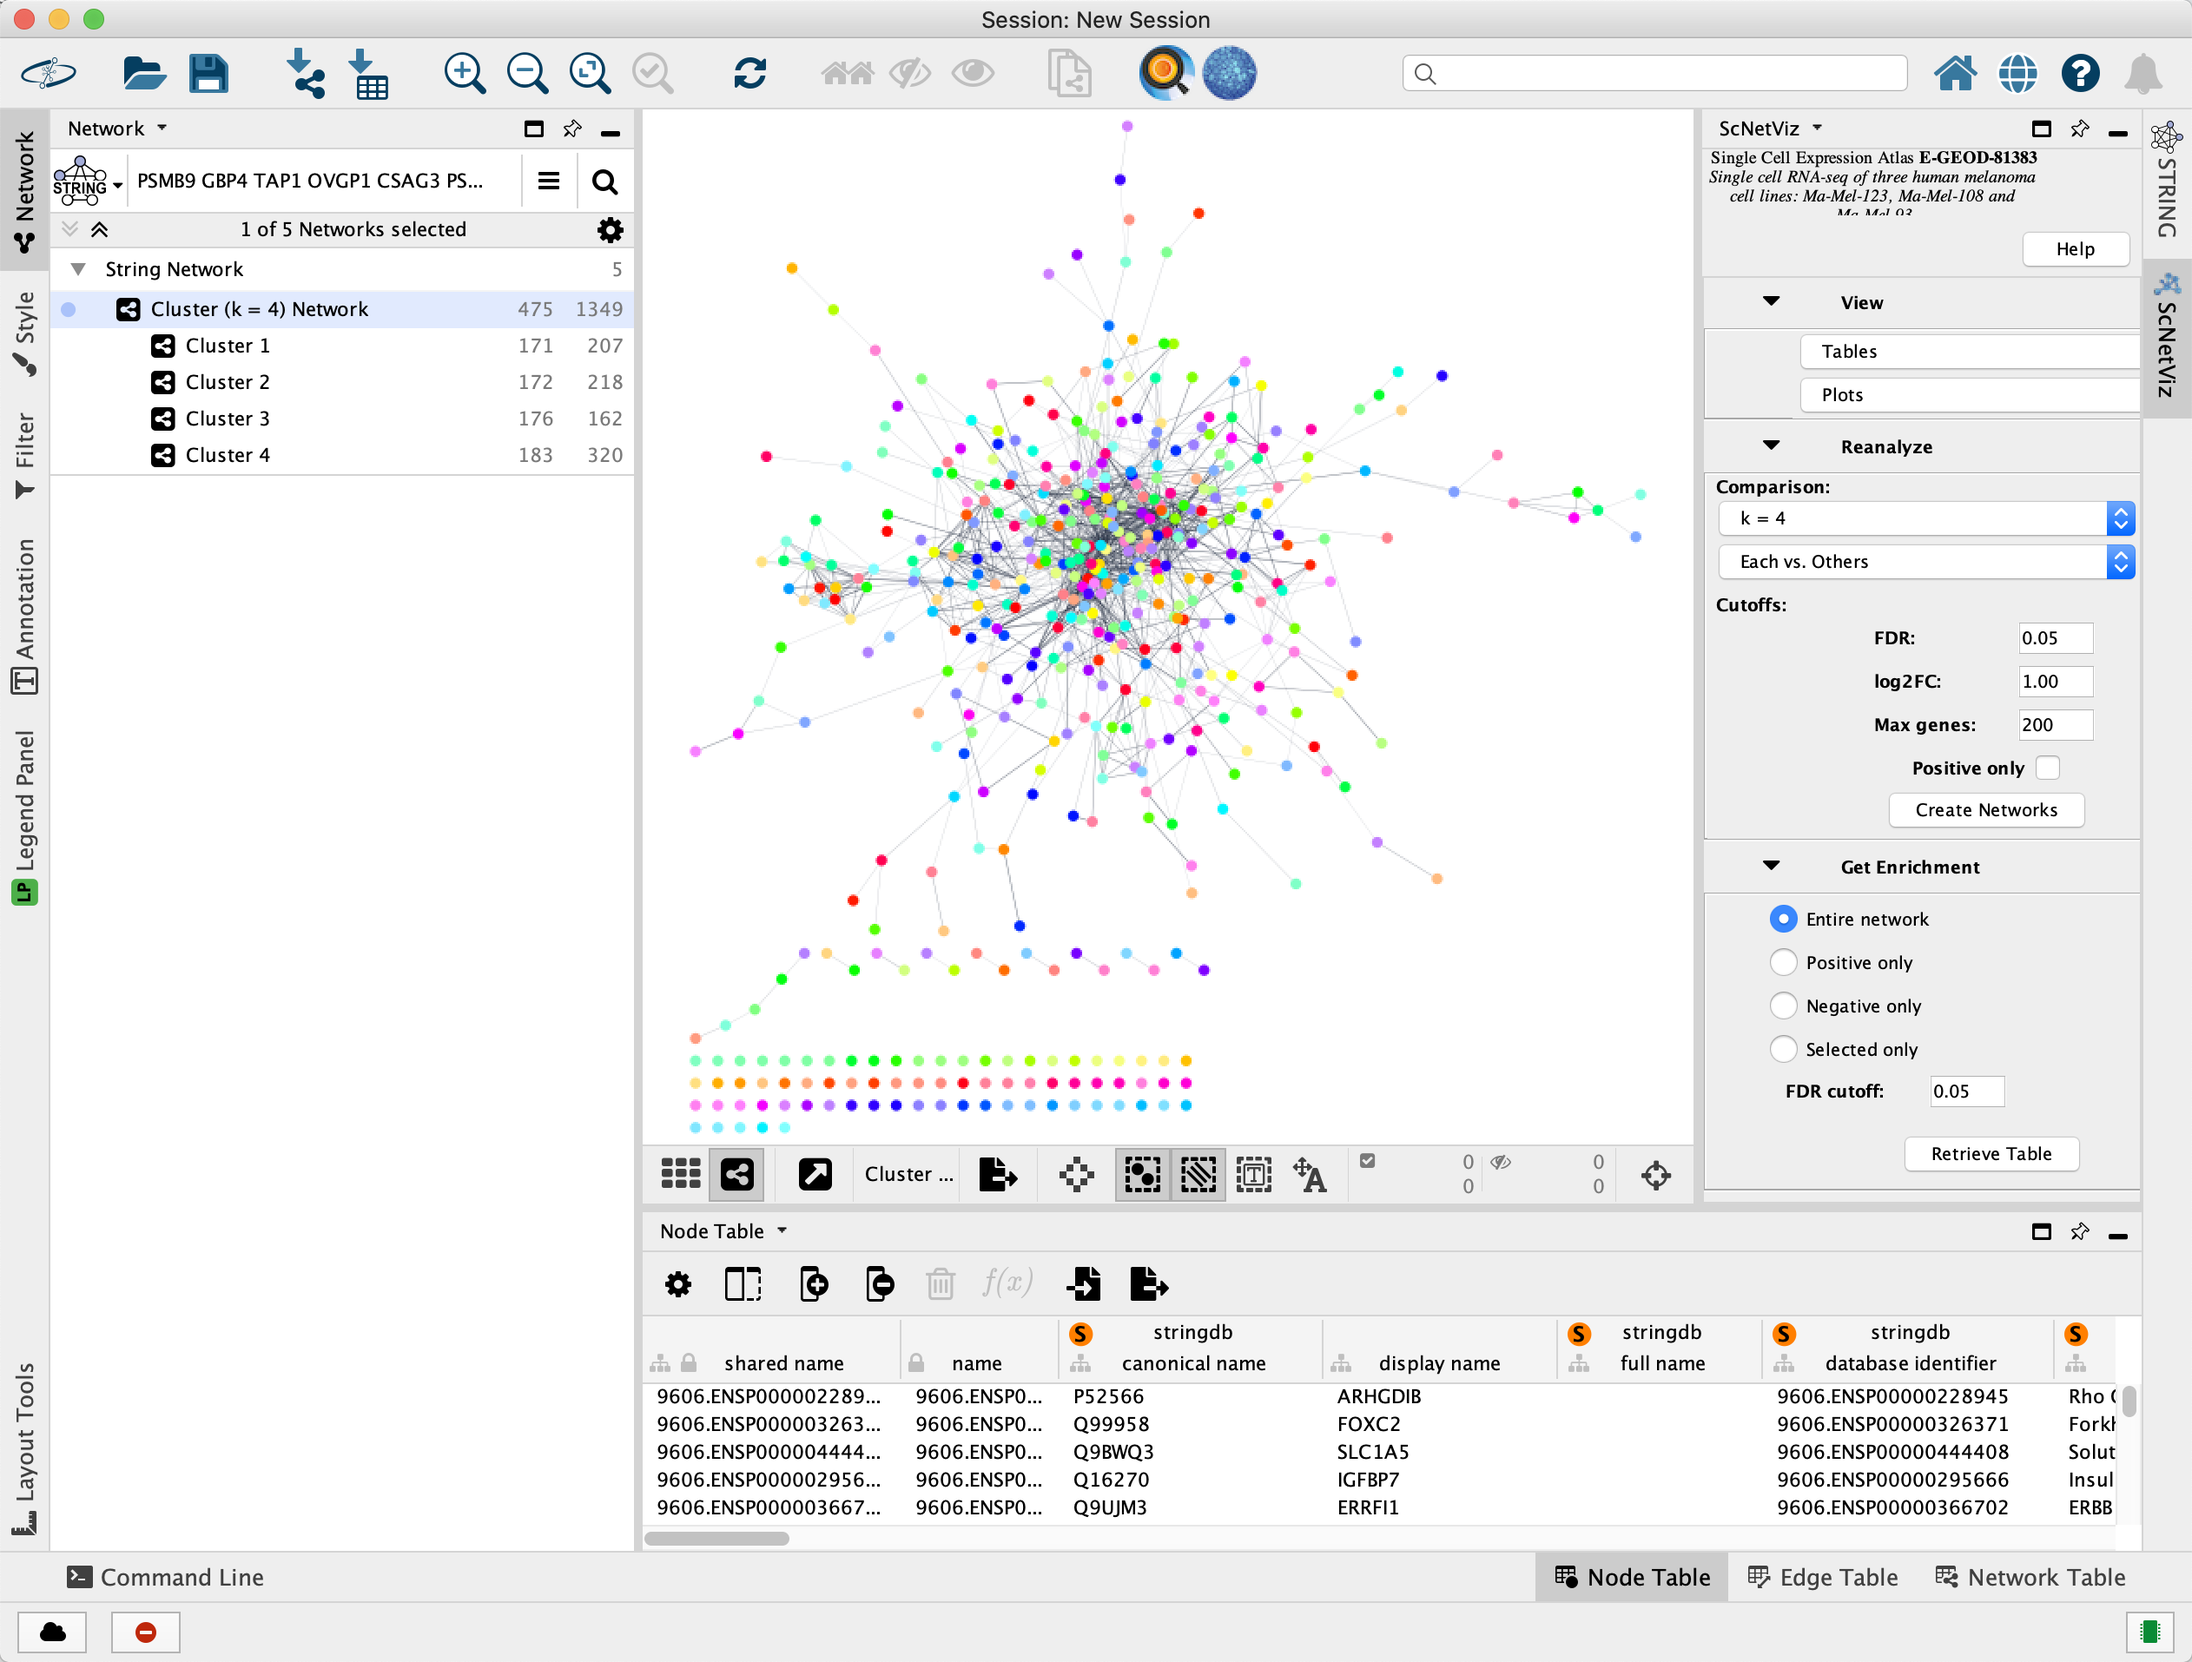
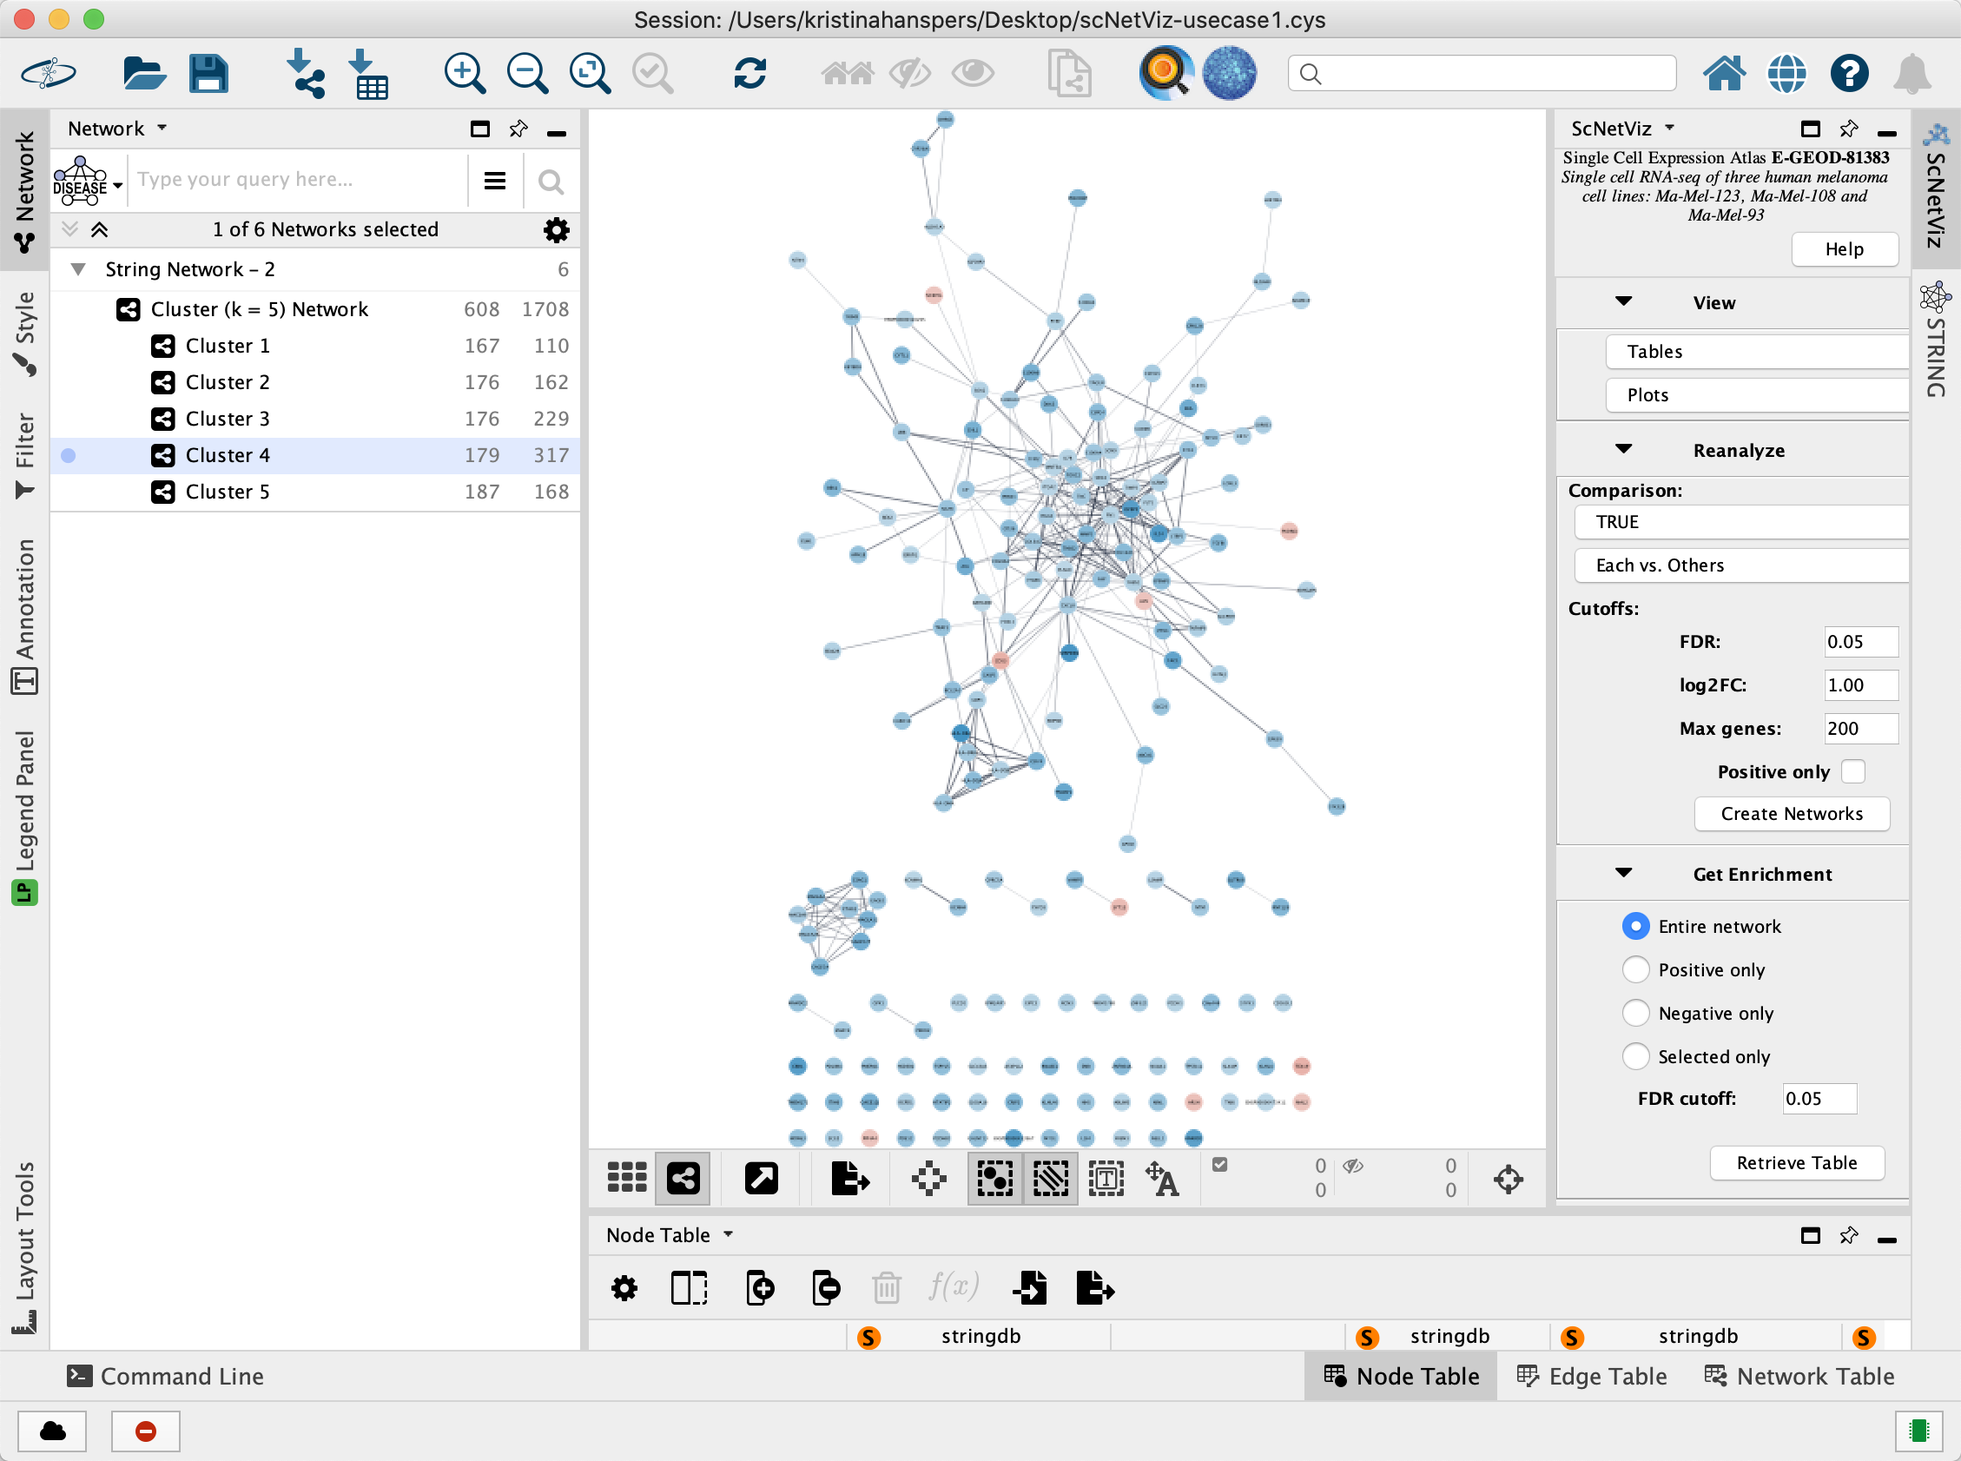
updated screenshots and text

diff --git a/protocols/scnetviz-single-cell-rnaseq-analysis/index.html b/protocols/scnetviz-single-cell-rnaseq-analysis/index.html
@@ -95,8 +95,8 @@
                 
 <section>
     <h1>Create Networks</h1>
-         <p>In this case, 4 networks are created; one for each cluster and one for all the clusters collectively. In the <highlight>Results Panel</highlight>, two tabs will be loaded, for <b>scNetViz</b> and <b>stringApp</b>. We will use the built-in functionailty in the stringApp to calculate functional enrichment.</p>
-         <img class="plain" src="Networks.png" style="width:60%">
+         <p>In this case, 5 networks are created; one for each cluster and one for all the clusters combined. The <b>Log 2 Fold Change</b> for each cluster is visualized as the node fill color. In the <highlight>Results Panel</highlight>, two tabs will be loaded, for <b>scNetViz</b> and <b>stringApp</b>.</p>
+         <img class="plain" src="Networks.png" style="width:65%">
          <aside class="notes" data-markdown>
          Notes go here 
          </aside>
@@ -106,12 +106,13 @@
     <h1>Functional Enrichment Analysis</h1>
          <ul>
          <li>Click on one of the clusters in the <highlight>Network Panel</highlight> to select it.</li>
-         <li>In the <highlight>Get Enrichment</highlight> section of the <highlight>ScNetViz</highlight> tab, leave the default seletions as-is and click <highlight>Retrieve Table</highlight>.</li>
+         <li>In the <highlight>Get Enrichment</highlight> section of the <highlight>ScNetViz</highlight> tab, leave the default selections as-is and click <highlight>Retrieve Table</highlight>.</li>
          <li>The functional enrichment results will be loaded in a new <highlight>STRING Enrichment</highlight> panel in the <highlight>Table Panel</highlight> below the network.</li>
          <li>Click the <highlight>Draw charts using default color palette</highlight> button <img class="plain" src="ShowCharts.png">.</li>
          <li>Repeat these steps for the remaining networks.</li>
          </ul>
-             
+         <img class="plain" src="cluster4.png" style="width:33%">
+
          <aside class="notes" data-markdown>
          Notes go here 
          </aside>
@@ -139,7 +140,7 @@
     <h1>Load data</h1>
     <ul>
     <li>Launch Cytoscape. In the <highlight>Apps</highlight> menu, select <highlight>scNetViz &rarr; Load Experiment &rarr; Import from file...</highlight>.</li>
-    <li>Select <b>Mus musculus</b> as the species, by typing directly into the drop-down. Browse to find the <b>E-GEOD-109979</b> zip file under <highlight>File or directory with MTX matrix and headers</highlight>. Click <b>OK</b> to load.</li>
+    <li>Select <b>Homo sapiens</b> as the species, by typing directly into the drop-down. Browse to find the <b>E-GEOD-109979</b> zip file under <highlight>File or directory with MTX matrix and headers</highlight>. Click <b>OK</b> to load.</li>
     <li>Leave <highlight>Skip first line of header files</highlight> blank.</li>
     </ul>
            
